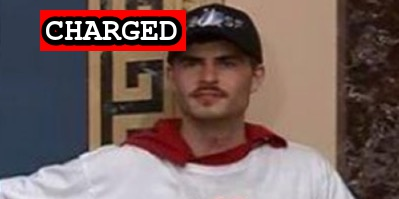
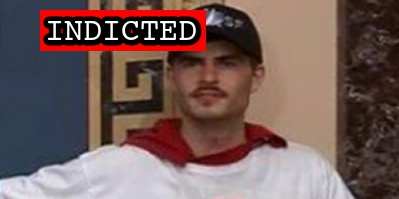
Latest import

Changed region(s): [[0.0902, 0.0302, 0.5414, 0.2714]]

diff --git a/docs/_suspects/gabriel-garcia.md b/docs/_suspects/gabriel-garcia.md
@@ -39,7 +39,7 @@ sentence:
 - [News Report](https://www.miamiherald.com/news/local/crime/article248608940.html)
 - [Statement of Facts](https://www.justice.gov/opa/page/file/1356776/download)
 - [Complaint](https://www.justice.gov/opa/page/file/1356771/download)
-- [Indictment](https://www.justice.gov/usao-dc/case-multi-defendant/file/1377706/download)
+- [Indictment](https://www.justice.gov/usao-dc/case-multi-defendant/file/1459406/download)
 - [Media Interview](https://twitter.com/MIAagainstFash/status/1422591337782779911)
 - [Government's Opposition to Modifying Conditions of Release](/filings/gabriel-garcia-government-opposition.pdf)
 - [Order Denying Defense Motion to Modify Conditions of Release](/filings/gabriel-garcia-motion-denied.pdf)

diff --git a/docs/_suspects/mitchell-gardner.md b/docs/_suspects/mitchell-gardner.md
@@ -4,10 +4,10 @@ lastName: Gardner
 hashtag: LeatherHanesHisWay
 aka:
 residence: Florida
-status: Charged
+status: Indicted
 date: 2021-06-25
 charged: 2021-06-25
-indicted:
+indicted: 2021-10-08
 convicted:
 sentenced:
 dismissed:
@@ -36,5 +36,7 @@ videos:
 charges:
 sentence:
 ---
+
 - [News Report](https://www.tampabay.com/news/hillsborough/2021/06/28/hillsborough-mans-arrest-makes-500-charged-in-capitol-riot/)
 - [Statement of Facts](https://www.justice.gov/usao-dc/case-multi-defendant/file/1407206/download)
+- [Indictment](https://www.justice.gov/usao-dc/case-multi-defendant/file/1459411/download)

diff --git a/docs/_suspects/noah-bacon.md b/docs/_suspects/noah-bacon.md
@@ -4,10 +4,10 @@ lastName: Bacon
 hashtag: HeartTInsider
 aka:
 residence: Massachusetts
-status: Charged
+status: Indicted
 date: 2021-06-30
 charged: 2021-06-30
-indicted:
+indicted: 2021-07-23
 convicted:
 sentenced:
 dismissed:
@@ -36,5 +36,7 @@ videos:
 charges:
 sentence:
 ---
+
 - [News Report](https://boston.cbslocal.com/2021/06/30/capitol-riot-arrests-fbi-boston-noah-bacon-chase-allen-somerville-seekonk/)
 - [Statement of Facts](https://www.justice.gov/usao-dc/case-multi-defendant/file/1408331/download)
+- [Indictment](https://www.justice.gov/usao-dc/case-multi-defendant/file/1459391/download)

diff --git a/docs/_suspects/matthew-baggott.md b/docs/_suspects/matthew-baggott.md
@@ -38,4 +38,4 @@ sentence:
 ---
 - [News Report](https://www.wsmv.com/news/two-middle-tennessee-residents-arrested-for-role-in-us-capitol-riot/article_8f4af518-c4c0-11eb-be8e-af86539b82fc.html)
 - [Statement of Facts](https://www.justice.gov/usao-dc/case-multi-defendant/file/1401226/download)
-- [Information](https://extremism.gwu.edu/sites/g/files/zaxdzs2191/f/Stewart%20Parks%20and%20Matthew%20Baggott%20Information.pdf)
+- [Information](https://www.justice.gov/usao-dc/case-multi-defendant/file/1459396/download)
